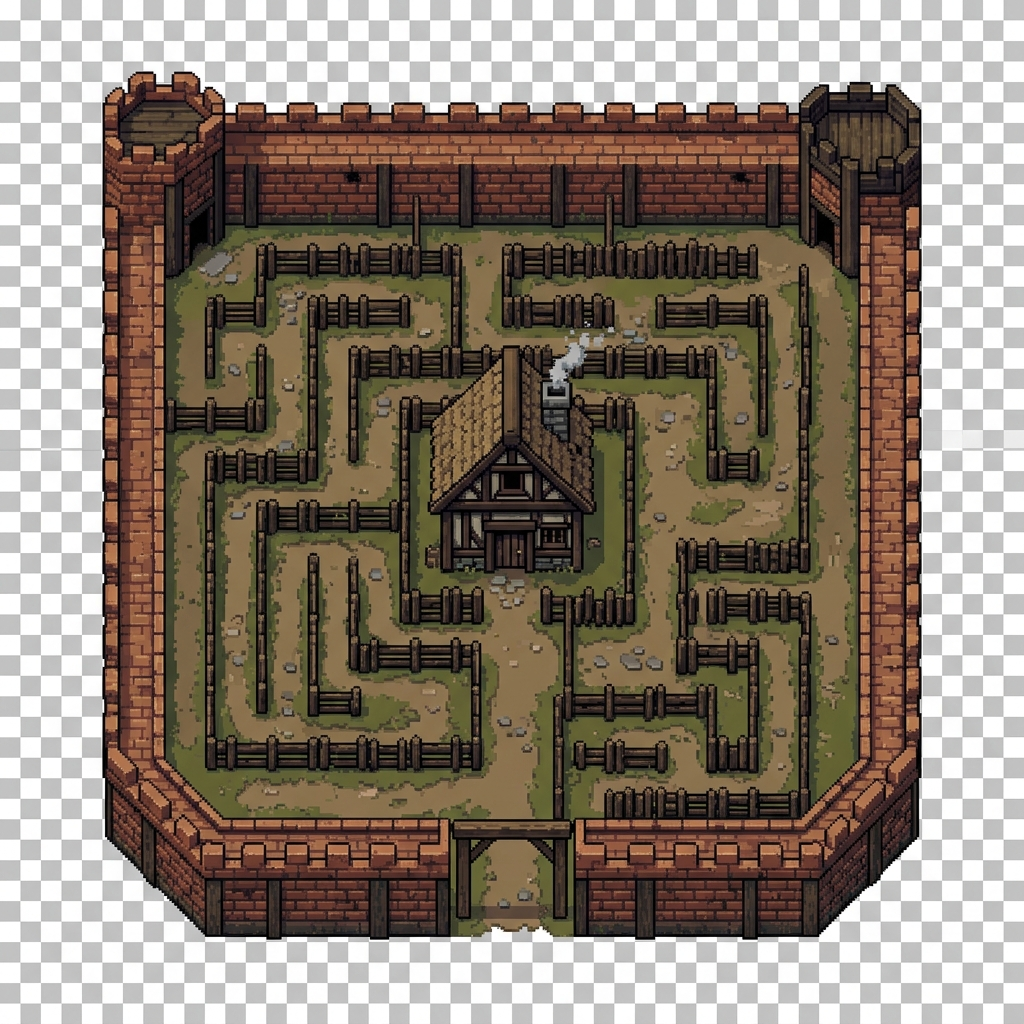
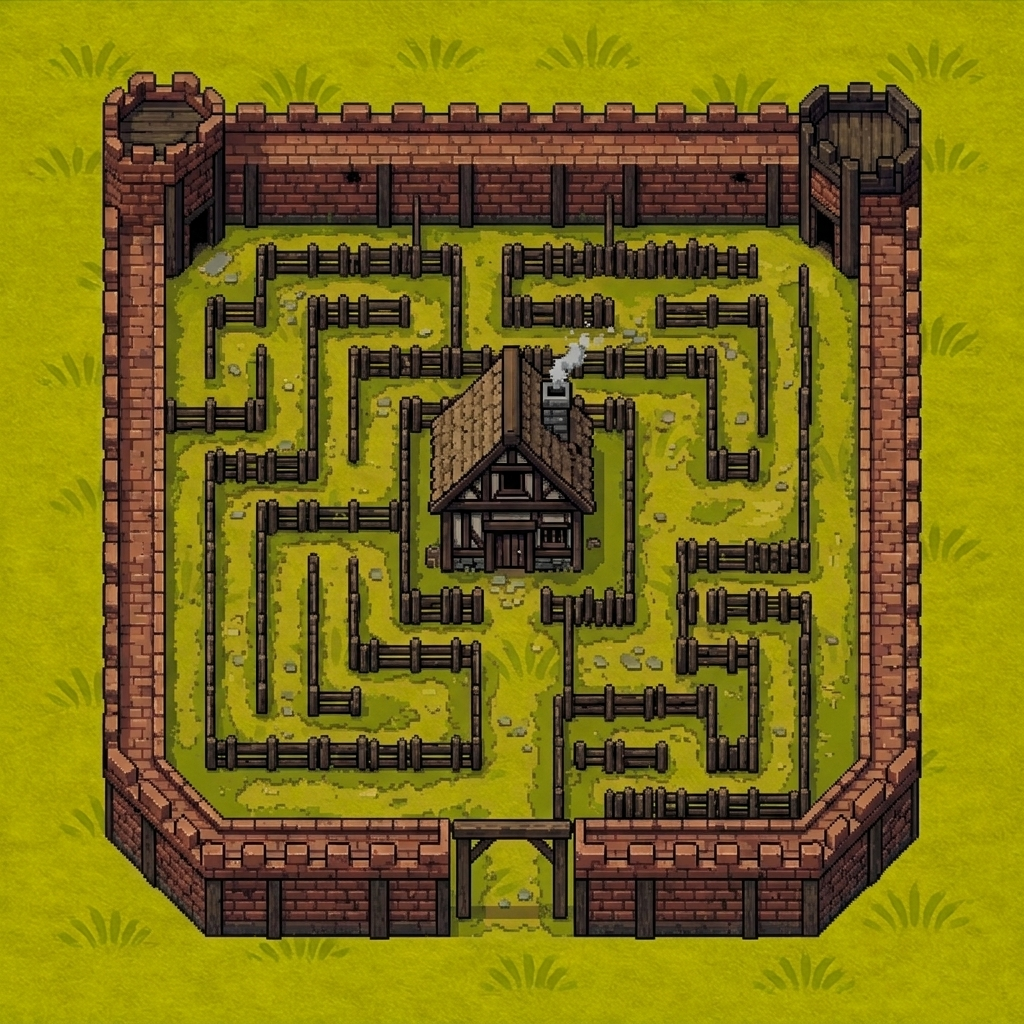
feat: composite tile assets on grass background and unify all standard property clicks into detailed harvest modal

diff --git a/components/special-tile-modal.tsx b/components/special-tile-modal.tsx
@@ -3,9 +3,10 @@
 import React from "react"
 import { Dialog, DialogContent, DialogHeader, DialogTitle, DialogDescription } from "@/components/ui/dialog"
 import { Button } from "@/components/ui/button"
-import { Sparkles, Coins, Clock, ShieldAlert, CheckCircle2 } from "lucide-react"
+import { Sparkles, Coins, Clock, CheckCircle2, ChevronRight } from "lucide-react"
 import Image from "next/image"
 import { cn } from "@/lib/utils"
+import { KINGDOM_TILES } from "@/lib/kingdom-tiles"
 
 interface SpecialTileModalProps {
   isOpen: boolean
@@ -13,6 +14,59 @@ interface SpecialTileModalProps {
   tile: any
   timer: any
   onCollect: () => void
+}
+
+const getBuildingSubTitle = (id: string) => {
+  const map: Record<string, string> = {
+    'blacksmith': 'Refiner of Ore & Armory',
+    'sawmill': 'Lumberyard & Wood Processing',
+    'fisherman': 'Quiet Angler\'s Dock',
+    'grocery': 'Fresh Harvest Market Stall',
+    'foodcourt': 'Medieval Feast & Tavern Stall',
+    'well': 'Fresh Water Stone Well',
+    'windmill': 'Grain Mill & Bakery Supplies',
+    'fountain': 'Sanctuary of Flowing Springs',
+    'mansion': 'Wealthy Aristocrat\'s Manor',
+    'mayor': 'Town Administration Office',
+    'archery': 'Military Ranged Training Range',
+    'jousting': 'Chivalrous Knight Arena',
+    'watchtower': 'Fortress Border Defense Guard',
+    'mystic-obelisk': 'Ancient Cosmic Beacon',
+    'golden-pantheon': 'Sacred Golden Shrine'
+  }
+  return map[id] || 'Kingdom Building'
+}
+
+const getBuildingSpecialOutput = (id: string, kt: any) => {
+  const map: Record<string, string> = {
+    'blacksmith': 'Crafts refined metal materials & equipment.',
+    'sawmill': 'Processes raw logs into building planks.',
+    'fisherman': 'Catches fresh river fish & edible items.',
+    'grocery': 'Distributes daily food rations & grain.',
+    'foodcourt': 'Cooks premium meals for companions.',
+    'well': 'Supplies fresh water & occasional luck charms.',
+    'windmill': 'Grinds grain into flour for baking.',
+    'fountain': 'Boosts town wellness and tranquility.',
+    'mansion': 'Generates high passive tax revenues.',
+    'mayor': 'Oversees town upgrades and expansion.',
+    'archery': 'Improves combat readiness and skills.',
+    'jousting': 'Yields champion crests & joust rewards.',
+    'watchtower': 'Defends kingdom from chaotic rift rifts.',
+    'mystic-obelisk': 'Effect: +15% Unowned Scratch Card Chance (2 Hours)',
+    'golden-pantheon': 'Bonus: 35% chance of Crown Pack, Gems, or 500 Essence'
+  }
+  return map[id] || `Produces passive Gold & Experience.`
+}
+
+const getRarityColorClass = (rarity: string) => {
+  switch (rarity?.toLowerCase()) {
+    case 'mythic': return 'text-red-400 border-red-500/30 bg-red-950/20'
+    case 'legendary': return 'text-orange-400 border-orange-500/30 bg-orange-950/20'
+    case 'epic': return 'text-purple-400 border-purple-500/30 bg-purple-950/20'
+    case 'rare': return 'text-blue-400 border-blue-500/30 bg-blue-950/20'
+    case 'uncommon': return 'text-green-400 border-green-500/30 bg-green-950/20'
+    default: return 'text-zinc-400 border-zinc-500/30 bg-zinc-950/20'
+  }
 }
 
 export function SpecialTileModal({ isOpen, onClose, tile, timer, onCollect }: SpecialTileModalProps) {
@@ -29,60 +83,98 @@ export function SpecialTileModal({ isOpen, onClose, tile, timer, onCollect }: Sp
     return `${hours > 0 ? `${hours}h ` : ""}${minutes}m ${seconds}s`
   }
 
-  const isObelisk = tile.type === "mystic-obelisk"
+  const typeLower = tile.type?.toLowerCase() || ""
+  const kingdomTile = KINGDOM_TILES.find(kt => kt.id === typeLower)
+  
+  const displayName = kingdomTile?.name || tile.name || "Building"
+  const clickMessage = kingdomTile?.clickMessage || "A majestic structure in your growing settlement."
+  const tileImage = kingdomTile?.image || tile.image || "/images/kingdom-tiles/Vacant.webp"
+  const subTitle = getBuildingSubTitle(typeLower)
+  const specialOutput = getBuildingSpecialOutput(typeLower, kingdomTile)
+  
+  const normalRange = kingdomTile?.normalGoldRange || [10, 20]
+  const luckyGold = kingdomTile?.luckyGoldAmount || 50
+  const luckyChancePercent = Math.round((kingdomTile?.luckyChance || 0) * 100)
+  const rarity = kingdomTile?.rarity || "common"
+
+  const isObelisk = typeLower === "mystic-obelisk"
+  const isPantheon = typeLower === "golden-pantheon"
   
   return (
     <Dialog open={isOpen} onOpenChange={(open) => { if (!open) onClose(); }}>
-      <DialogContent className="max-w-md w-full bg-zinc-950 border border-amber-900/40 text-white rounded-2xl p-6 shadow-2xl overflow-hidden">
+      <DialogContent className="max-w-md w-full bg-zinc-950 border border-amber-900/40 text-white rounded-2xl p-6 shadow-2xl overflow-hidden font-serif">
         {/* Decorative background glow */}
         <div className="absolute inset-0 pointer-events-none -z-10 opacity-30">
           <div className={cn(
             "absolute -top-24 -left-24 w-48 h-48 rounded-full blur-3xl",
-            isObelisk ? "bg-purple-500" : "bg-yellow-500"
+            isObelisk ? "bg-purple-500/20" : isPantheon ? "bg-yellow-500/20" : "bg-amber-600/10"
           )} />
         </div>
 
         <DialogHeader className="text-center pb-2 border-b border-amber-900/20">
           <DialogTitle className="text-3xl font-medieval tracking-wide text-amber-400">
-            {isObelisk ? "Mystic Obelisk" : "Golden Pantheon"}
+            {displayName}
           </DialogTitle>
           <DialogDescription className="text-xs font-mono text-zinc-400">
-            {isObelisk ? "Ancient Cosmic Beacon" : "Sacred Golden Shrine"}
+            {subTitle}
           </DialogDescription>
         </DialogHeader>
 
-        <div className="flex flex-col items-center gap-6 mt-6">
-          {/* Centered Large Pixel Art Building */}
-          <div className="relative w-36 h-36 bg-zinc-900/60 border border-amber-900/30 rounded-xl overflow-hidden flex items-center justify-center p-2 shadow-inner group">
+        <div className="flex flex-col items-center gap-5 mt-5">
+          {/* Centered Tile Image */}
+          <div className="relative w-28 h-28 bg-zinc-900/60 border border-amber-900/20 rounded-xl overflow-hidden flex items-center justify-center p-2 shadow-inner group">
             <Image
-              src={isObelisk ? "/images/tiles/mystic-obelisk-tile.webp" : "/images/tiles/golden-pantheon-tile.webp"}
-              alt={tile.name}
+              src={tileImage}
+              alt={displayName}
               fill
-              sizes="144px"
-              className="object-contain transition-transform duration-500 group-hover:scale-110"
+              sizes="112px"
+              className="object-contain p-1 transition-transform duration-500 group-hover:scale-110"
             />
           </div>
 
-          {/* Description & Effect info */}
-          <div className="text-center px-2 space-y-3">
-            <p className="text-sm text-zinc-300 font-serif leading-relaxed">
-              {isObelisk
-                ? "The cosmic spire hums with a deep vibrational tone. Once collected, it grants you the Astral Fortune perk for 2 hours, boosting your chances of finding unowned Mythic cards from scratch card packs."
-                : "A grand cathedral built to honor the kingdom's prosperity. It yields a massive daily gold dividend (1,000–3,000 Gold) and has a 35% chance to award a Crown card pack, bonus Gems, or Ember Essence."}
+          {/* Rarity tag */}
+          <span className={cn(
+            "text-[10px] uppercase font-mono tracking-widest px-2.5 py-0.5 rounded-full border",
+            getRarityColorClass(rarity)
+          )}>
+            {rarity}
+          </span>
+
+          {/* Lore / Description */}
+          <div className="text-center px-1 space-y-3">
+            <p className="text-sm text-zinc-300 font-serif leading-relaxed italic">
+              &ldquo;{clickMessage}&rdquo;
             </p>
 
-            {/* Special Perk / Bonus Indicator */}
+            {/* Produces info */}
+            <div className="grid grid-cols-2 gap-2 text-xs text-zinc-400 font-mono text-left bg-zinc-900/40 p-2.5 rounded-lg border border-amber-900/5">
+              <div>
+                <span className="text-zinc-500 block text-[9px] tracking-wider">DAILY YIELD</span>
+                <span className="text-amber-400 font-bold flex items-center gap-1">
+                  <Coins className="w-3.5 h-3.5 shrink-0" />
+                  {normalRange[0]}–{normalRange[1]} Gold
+                </span>
+              </div>
+              <div>
+                <span className="text-zinc-500 block text-[9px] tracking-wider">LUCKY BONUSES</span>
+                <span className="text-white font-semibold">
+                  {luckyGold} Gold ({luckyChancePercent}%)
+                </span>
+              </div>
+            </div>
+
+            {/* Special Output Banner */}
             <div className={cn(
               "rounded-xl p-3 border text-xs flex items-center justify-center gap-2",
               isObelisk 
                 ? "bg-purple-950/20 border-purple-500/30 text-purple-200"
-                : "bg-amber-950/20 border-amber-500/30 text-amber-200"
+                : isPantheon 
+                  ? "bg-amber-950/20 border-amber-500/30 text-amber-200"
+                  : "bg-zinc-900/40 border-amber-900/20 text-amber-100"
             )}>
               <Sparkles className="w-4 h-4 text-amber-400 shrink-0" />
-              <span>
-                {isObelisk
-                  ? "Effect: +15% Unowned Scratch Card Chance (2 Hours)"
-                  : "Bonus: 35% chance to drop Crown Pack, Gems, or 500 Essence"}
+              <span className="text-left font-serif leading-tight">
+                {specialOutput}
               </span>
             </div>
           </div>
@@ -99,8 +191,8 @@ export function SpecialTileModal({ isOpen, onClose, tile, timer, onCollect }: Sp
                   <Clock className="w-5 h-5 text-zinc-400 animate-pulse" />
                 </div>
               )}
-              <div className="text-left">
-                <span className="text-xs text-zinc-400 font-mono block">STATUS</span>
+              <div className="text-left font-serif">
+                <span className="text-xs text-zinc-400 font-mono block leading-none">STATUS</span>
                 <span className={cn(
                   "font-bold text-sm",
                   isReady ? "text-green-400" : "text-amber-300"
@@ -118,11 +210,11 @@ export function SpecialTileModal({ isOpen, onClose, tile, timer, onCollect }: Sp
           </div>
 
           {/* Action Buttons */}
-          <div className="w-full flex gap-3 mt-2">
+          <div className="w-full flex gap-3 mt-1">
             <Button
               variant="outline"
               onClick={onClose}
-              className="flex-1 bg-zinc-900 hover:bg-zinc-800 border-zinc-700 text-white rounded-xl py-6"
+              className="flex-1 bg-zinc-900 hover:bg-zinc-800 border-zinc-700 text-white rounded-xl py-5 font-serif font-semibold"
             >
               Close
             </Button>
@@ -132,7 +224,7 @@ export function SpecialTileModal({ isOpen, onClose, tile, timer, onCollect }: Sp
                   onCollect();
                   onClose();
                 }}
-                className="flex-1 bg-gradient-to-r from-amber-500 to-orange-600 hover:from-amber-600 hover:to-orange-700 text-white font-bold rounded-xl py-6 shadow-lg shadow-amber-500/20"
+                className="flex-1 bg-gradient-to-br from-amber-500 to-amber-700 hover:from-amber-600 hover:to-amber-800 text-white font-bold rounded-xl py-5 shadow-lg shadow-amber-500/10 border border-amber-400/20"
               >
                 Harvest Building
               </Button>

diff --git a/components/kingdom-grid-with-timers.tsx b/components/kingdom-grid-with-timers.tsx
@@ -1337,7 +1337,13 @@ export function KingdomGridWithTimers({
       }
       return;
     }
-    if (tile.type === 'mystic-obelisk' || tile.type === 'golden-pantheon') {
+    const propertyTypes = [
+      'blacksmith', 'sawmill', 'fisherman', 'grocery', 'foodcourt',
+      'well', 'windmill', 'fountain', 'mansion', 'mayor',
+      'archery', 'jousting', 'watchtower', 'mystic-obelisk', 'golden-pantheon'
+    ];
+
+    if (tile.type && propertyTypes.includes(tile.type.toLowerCase())) {
       const activeTimer = tileTimers.find(t => t.x === x && t.y === y);
       setSpecialTileData({ x, y, tile, timer: activeTimer });
       setSpecialModalOpen(true);
@@ -1709,7 +1715,7 @@ export function KingdomGridWithTimers({
     }
   }
 
-  const collectSpecialTile = (x: number, y: number, tile: Tile) => {
+  const collectPropertyTile = (x: number, y: number, tile: Tile) => {
     const kingdomTile = KINGDOM_TILES.find(kt => kt.id === tile.type.toLowerCase())
     if (!kingdomTile) return
 
@@ -1732,6 +1738,22 @@ export function KingdomGridWithTimers({
         ? Math.ceil(baseExperience * 1.1)
         : baseExperience
 
+    // Roll for items
+    let itemFound: string | null = null
+    if (kingdomTile.itemChance && kingdomTile.itemType && Math.random() < kingdomTile.itemChance) {
+      if (kingdomTile.itemType === 'metal') {
+        itemFound = '/images/items/materials/material-iron.webp'
+      } else if (kingdomTile.itemType === 'wood') {
+        itemFound = '/images/items/materials/material-wood.webp'
+      } else if (kingdomTile.itemType === 'fish') {
+        itemFound = '/images/items/materials/fish-bass.webp'
+      } else if (kingdomTile.itemType === 'food') {
+        itemFound = '/images/items/materials/material-grain.webp'
+      } else if (kingdomTile.itemType === 'stone') {
+        itemFound = '/images/items/materials/material-stone.webp'
+      }
+    }
+
     ;(async () => {
       try {
         const { goldManager, expManager } = await loadManagers();
@@ -1749,6 +1771,91 @@ export function KingdomGridWithTimers({
         })
       } catch {}
     })()
+
+    // Add item to inventory if found
+    if (itemFound) {
+      ;(async () => {
+        try {
+          const { invManager } = await loadManagers()
+          if (kingdomTile.itemType === 'metal') {
+            await invManager.addToKingdomInventory(userId, {
+              id: 'material-iron',
+              name: 'Iron Ore',
+              type: 'resource',
+              quantity: 1,
+              image: '/images/items/materials/material-iron.webp',
+              description: 'Refined iron ore used for crafting equipment.',
+              emoji: '🪙',
+              stats: {},
+              category: 'material',
+              rarity: 'common'
+            } as any);
+          } else if (kingdomTile.itemType === 'wood') {
+            await invManager.addToKingdomInventory(userId, {
+              id: 'material-wood',
+              name: 'Hardwood Board',
+              type: 'resource',
+              quantity: 1,
+              image: '/images/items/materials/material-wood.webp',
+              description: 'Sturdy wooden plank used for building and upgrades.',
+              emoji: '🪵',
+              stats: {},
+              category: 'material',
+              rarity: 'common'
+            } as any);
+          } else if (kingdomTile.itemType === 'fish') {
+            await invManager.addToKingdomInventory(userId, {
+              id: 'fish-bass',
+              name: 'River Bass',
+              type: 'food',
+              quantity: 1,
+              image: '/images/items/materials/fish-bass.webp',
+              description: 'Fresh water fish, high in protein.',
+              emoji: '🐟',
+              stats: {},
+              category: 'fish',
+              rarity: 'common'
+            } as any);
+          } else if (kingdomTile.itemType === 'food') {
+            await invManager.addToKingdomInventory(userId, {
+              id: 'material-grain',
+              name: 'Golden Grain',
+              type: 'resource',
+              quantity: 1,
+              image: '/images/items/materials/material-grain.webp',
+              description: 'High-quality harvested grains.',
+              emoji: '🌾',
+              stats: {},
+              category: 'material',
+              rarity: 'common'
+            } as any);
+          } else if (kingdomTile.itemType === 'stone') {
+            await invManager.addToKingdomInventory(userId, {
+              id: 'material-stone',
+              name: 'Quarried Stone',
+              type: 'resource',
+              quantity: 1,
+              image: '/images/items/materials/material-stone.webp',
+              description: 'Sturdy building stone harvested from quarries.',
+              emoji: '🪨',
+              stats: {},
+              category: 'material',
+              rarity: 'common'
+            } as any);
+          }
+        } catch (e) {
+          logger.error('Failed to add found item to inventory', e);
+        }
+      })();
+
+      if (onItemFound) {
+        onItemFound({
+          image: itemFound,
+          name: itemFound.split('/').pop()?.replace('.png', '') || 'Unknown Item',
+          type: kingdomTile.itemType
+        })
+      }
+    }
 
     let finalMessage = kingdomTile.clickMessage;
 
@@ -1844,7 +1951,11 @@ export function KingdomGridWithTimers({
     setModalData({
       tileName: kingdomTile.name,
       goldEarned,
-      itemFound: undefined,
+      itemFound: itemFound ? {
+        image: itemFound,
+        name: itemFound.split('/').pop()?.replace('.png', '') || 'Unknown Item',
+        type: kingdomTile.itemType
+      } : undefined,
       isLucky: wasLucky,
       message: finalMessage
     })
@@ -2538,7 +2649,7 @@ export function KingdomGridWithTimers({
         }}
         onCollect={actionSheetTile?.timer?.isReady ? () => {
           if (actionSheetTile) {
-            handleTileClick(actionSheetTile.x, actionSheetTile.y, actionSheetTile.tile);
+            collectPropertyTile(actionSheetTile.x, actionSheetTile.y, actionSheetTile.tile);
           }
         } : undefined}
         onCollectAll={handleCollectAllReady}
@@ -2625,7 +2736,7 @@ export function KingdomGridWithTimers({
           tile={specialTileData.tile}
           timer={specialTileData.timer}
           onCollect={() => {
-            collectSpecialTile(specialTileData.x, specialTileData.y, specialTileData.tile);
+            collectPropertyTile(specialTileData.x, specialTileData.y, specialTileData.tile);
           }}
         />
       )}